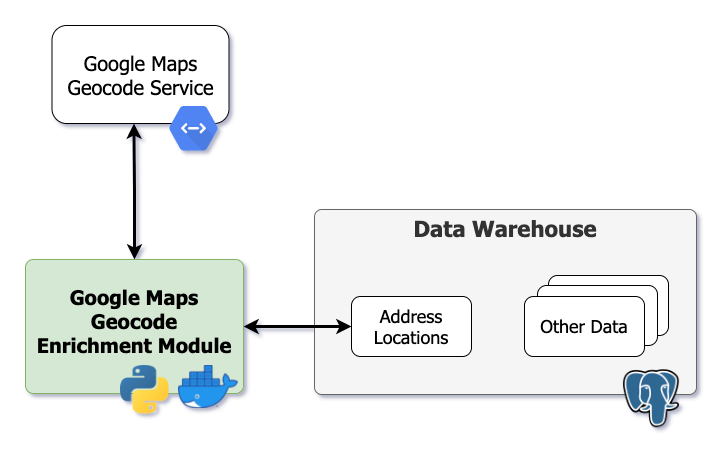
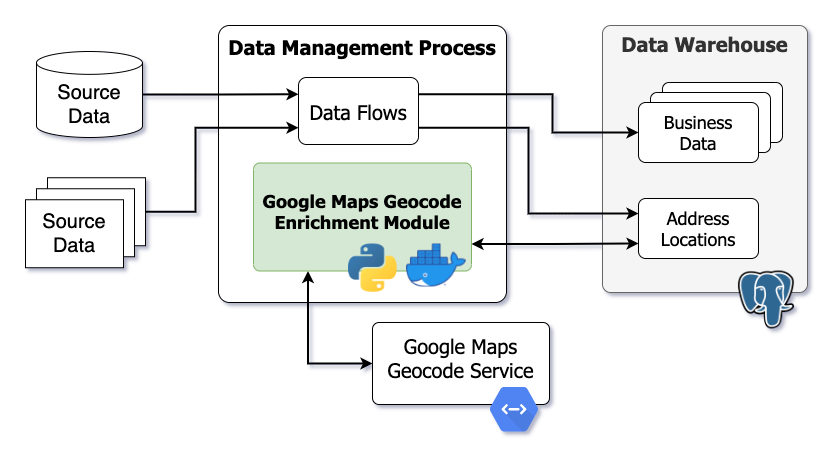
Update documentation

diff --git a/README.md b/README.md
@@ -27,20 +27,22 @@ This project repository provides a headless module to enrich location data in a 
 
 ## Background
 
-This module was built to provide data cleansing and enrichment for physical mailing address locations scraped from public data sources.  Street address locations can contain many typos, variations in spellings, misspellings and other problems.  The [Google Maps Geocode Service](https://developers.google.com/maps/documentation/geocoding/overview) was selected as a source of data enhancement and enrichment because Google Maps is one of the best sources of location-based addresses across the world and because of the advanced Natural Language Prediction (NLP) capabilities inherent in using this service for address resolution.
+This application module was built to provide data cleansing and enrichment for physical mailing address locations scraped from public data sources.  Street address locations can contain many typos, variations in spellings, misspellings and other problems.  The [Google Maps Geocode Service](https://developers.google.com/maps/documentation/geocoding/overview) was selected as a source of data enhancement and enrichment because Google Maps is one of the best sources of location-based addresses across the world and because of the advanced Natural Language Prediction (NLP) capabilities inherent in using this service for address resolution.
 
 The original design of this data enrichment module leveraged the following outputs from the Geocoding API:
 1. Latitude / Longitude coorindates for a street address
-2. Standardized cleansed street address
+2. Standardized cleansed street address label
 3. Tokenized pieces of the street address for additional filtering, analysis and grouping (i.e. parse "NC" from and address in North Carolina and store in a "State" column)
+4. Google Place ID (unique identifier for every location in the world)
 
-The scope of this module is intended to be a headless engine running on an as-needed basis to update records in a database table as a part of a broader data management pipeline.  Example use cases include data warehousing and data lakes.
+The scope of this module is intended to be a headless engine running on an as-needed basis to update records in a database table as a part of a broader data management ETL pipeline.  Example use cases include data warehousing and data lakes.
 
 ## Technical Overview
 
-This project repository provides source code to build a process to enrich address locations via the [Google Geocode API](https://developers.google.com/maps/documentation/geocoding/overview).  The source code is in python and is containerized with Docker.  This serves to address 2 main concerns.  First that it is written in a language that is approachable for data analysis purposes, and second it's efficient and fast enough to provide **~500,000 updates in 1 day**.  Parallelization of the Google API interaction step is needed to meet the latter criteria, and containerization serves as a useful means to accomplish that.
+This project repository provides source code to build a process to enrich address locations via the [Google Geocode API](https://developers.google.com/maps/documentation/geocoding/overview).  The source code is in python and is containerized with Docker.  This serves to address 2 main concerns.  First that it is written in a language that is approachable for data analysis purposes, and second it's efficient and fast enough to provide **~500,000 updates in 1 day**.  Parallelization of the Google API interaction step is needed to meet the latter criteria, and containerization serves as a useful means to accomplish that through scaling features of Docker.
 
-[<img src="./doc/img/overview.png" alt="Overview" width="600"/>](./doc/img/overview.png?raw=true)
+The following conceptual diagram highlights where this application fits into a broader data management strategy.
+[<img src="./doc/img/overview.png" alt="Overview" width="650"/>](./doc/img/overview.png?raw=true)
 
 
 ## Google Web Services Legal Disclaimer
@@ -67,13 +69,14 @@ Key components are organized into the following directory structure:
 - [/doc](./doc) - Project documentation. Example DDL provided for creating the ref_location database table used to cache geocode results by location.
 - [/lib](./lib) - Library code is contained in **lib**.  It constitutes the core reusable components for obtaining work from postgres, querying and collecting results from Google, and updating postgres.  Both the experimental code as well the the production cluster code makes use of it in the same way.
 - [/test](./test) - Experiments, testing and debugging code.  Different aspects of the dev process are illustrated here and can serve as simplistic checks for additional features.
+  - [../postgres_db](./test/postgres_db) - Containerized version of PostgreSQL for development and testing purposes only.
 
 
 ## Prerequisites
 
 Use of this application requires working knowledge of the following technologies:
 
-- [Docker](https://www.docker.com/)
+- [Docker](https://www.docker.com/) and [Docker Compose](https://docs.docker.com/compose/)
 - [Python](https://www.python.org/)
 - [Google Cloud Platform](https://cloud.google.com/)
 - [Google Maps Geocoding API](https://developers.google.com/maps/documentation/geocoding/overview)
@@ -83,6 +86,8 @@ Use of this application requires working knowledge of the following technologies
 - Command Line Interface
   - Mac and Linux machines natively support
   - Windows machines will need a [linux subsystem](https://docs.microsoft.com/en-us/windows/wsl/install)
+- [PostgreSQL Database](https://www.postgresql.org/) (any version)
+
 
 #### Google Maps Geocode API Credentials
 
@@ -110,12 +115,21 @@ This application requires the latest version of Python installed.
 
 - [Download Python](https://www.python.org/downloads/)
 
+#### PostgreSQL Requirements
+
+This application was built using PostgreSQL version 11.x and currently only supports PostgreSQL.  Any version of PostgreSQL should work.  This application uses standard SQL table generation, reads and updates.
+
+- [Download PostgreSQL](https://www.postgresql.org/download/)
+
+A [containerized version of PostgreSQL](./test/postgres_db) is provided to help understand the application in your local environment.
+
 
 ## Technical Component Overview
 
 The following list provides an overview of key components:
 - PostgreSQL database
-- geocode_lib library (custom python application written in Docker)
+- **ref_location** table within PostgreSQL database to store location data
+- **geocode_lib** library (custom python application written in Docker)
 - Kafka infrastructure
 - Enrichment process (custom python applications built with docker compose)
 
@@ -233,6 +247,80 @@ The following steps can be used to build a local environment for development and
 
   The `docker-compose` command above builds and runs the Docker container in the background.
 
+## Scaling Performance
+
+The enrichment process can be scaled in parallel using the `g_query` parameter in Step 5 of the [Deployment Instructions](#deployment-instructions).  Suggested values are provided below.
+- Development Unit Testing = 2
+- QA Testing = 10-50
+- Production = 90-110
+
+Ensure Kafka partitions are defined appropriately as described in the [Kafka Partitions](#kafka-partitions) section.  This application was originally built and operational on a small machine with only **4 vCPUs running 110 parallel threads** (`g_query`=110).
+
+
+## ref_location
+
+The **ref_location** table is used to store location information and results from this enrichment application process retrieved from the Google Maps Geocode API.  This section describes the physical structure of the table as well as intended usage and data flow expectations.  DDL code is provided to build this table along with useful indexes and constraints for PostgreSQL in [./doc/ref_location_ddl.sql](./doc/ref_location_ddl.sql). This application was built using PostgreSQL and currently only supports PostgreSQL.
+
+### Physical Table Definition
+
+The following table describes each column in the **ref_location** table.  Data types align with PostgreSQL supported data types.  Data flow describes where the record value originates for each column.  Record values loaded into **ref_location** via standard ETL data flows are marked with the acronym **ETL**.  These are typically required fields used by this application module to query the Google Maps Geocode API service or for internal record management purposes.  Record values updated by this enrichment application module are marked with the term **App** or **Geocode API (App)**.  Columns marked with **Geocode API (App)** are populated from Google Maps, through the Geocode API, managed by this application.
+
+| Column Name | Data Type | Description | Required? | Data Flow |
+| :-- | :--: | :----- | :--: | :--- |
+| location_hash | text | Unique hash or natural key of address location. **Primary key constraint**.  | Yes | ETL |
+| location | text | Raw address location either as an atomic-level street address or simple city / state.  | Yes | ETL |
+| enrichment_enabled | boolean | True/false value indicating if location enrichment using this application is enabled for record. | Yes | ETL |
+| enrichment_status | text | Simple description of the enrichment process status (`IN_PROCESS`, `COMPLETE`, or null) | | App |
+| formatted_address | text | Standardized and cleansed address | | Geocode API (App) |
+| latitude | numeric(11,6) | Latitude coordinate of location. | | Geocode API (App) |
+| longitude | numeric(11,6) | Longitude coordinate of location. | | Geocode API (App) |
+| load_dttm | timestamp | When the record was loaded into this table. | | App |
+| last_update_dttm | timestamp | When the record was last updated. | | App |
+| google_place_id | text | Unique place identifier provided by Google Maps. | | Geocode API (App) |
+| google_partial_match | boolean | Indicates if the raw location returns a partial match from the Google Maps Geocode API. | | Geocode API (App) |
+| google_result_count | integer | Number of addresses resolved by the Google Maps Geocode API. | | Geocode API (App) |
+| google_result_type | jsonb | JSON string listing of the possible [address types](https://developers.google.com/maps/documentation/geocoding/overview#Types). | | Geocode API (App) |
+| long_street_number | text | Full text description. See [address types and components](https://developers.google.com/maps/documentation/geocoding/overview#Types). | | Geocode API (App) |
+| long_route | text | Full text description. See [address types and components](https://developers.google.com/maps/documentation/geocoding/overview#Types). | | Geocode API (App) |
+| long_political | text | Full text description. See [address types and components](https://developers.google.com/maps/documentation/geocoding/overview#Types). | | Geocode API (App) |
+| long_locality | text | Full text description. See [address types and components](https://developers.google.com/maps/documentation/geocoding/overview#Types). | | Geocode API (App) |
+| long_postal_code | text | Full text description. See [address types and components](https://developers.google.com/maps/documentation/geocoding/overview#Types). | | Geocode API (App) |
+| long_postal_code_suffix | text | Full text description. See [address types and components](https://developers.google.com/maps/documentation/geocoding/overview#Types). | | Geocode API (App) |
+| long_postal_town | text | Full text description. See [address types and components](https://developers.google.com/maps/documentation/geocoding/overview#Types). | | Geocode API (App) |
+| long_premise | text | Full text description. See [address types and components](https://developers.google.com/maps/documentation/geocoding/overview#Types). | | Geocode API (App) |
+| long_country | text | Full text description. See [address types and components](https://developers.google.com/maps/documentation/geocoding/overview#Types). | | Geocode API (App) |
+| long_admin_area_level_1 | text | Full text description. See [address types and components](https://developers.google.com/maps/documentation/geocoding/overview#Types). | | Geocode API (App) |
+| long_admin_area_level_2 | text | Full text description. See [address types and components](https://developers.google.com/maps/documentation/geocoding/overview#Types). | | Geocode API (App) |
+| long_admin_area_level_3 | text | Full text description. See [address types and components](https://developers.google.com/maps/documentation/geocoding/overview#Types). | | Geocode API (App) |
+| long_admin_area_level_4 | text | Full text description. See [address types and components](https://developers.google.com/maps/documentation/geocoding/overview#Types). | | Geocode API (App) |
+| long_admin_area_level_5 | text | Full text description. See [address types and components](https://developers.google.com/maps/documentation/geocoding/overview#Types). | | Geocode API (App) |
+| long_establishment | text | Full text description. See [address types and components](https://developers.google.com/maps/documentation/geocoding/overview#Types). | | Geocode API (App) |
+| short_street_number | text | Abbreviated description. See [address types and components](https://developers.google.com/maps/documentation/geocoding/overview#Types). | | Geocode API (App) |
+| short_route | text | Abbreviated description. See [address types and components](https://developers.google.com/maps/documentation/geocoding/overview#Types). | | Geocode API (App) |
+| short_political | text | Abbreviated description. See [address types and components](https://developers.google.com/maps/documentation/geocoding/overview#Types). | | Geocode API (App) |
+| short_locality | text | Abbreviated description. See [address types and components](https://developers.google.com/maps/documentation/geocoding/overview#Types). | | Geocode API (App) |
+| short_postal_code | text | Abbreviated description. See [address types and components](https://developers.google.com/maps/documentation/geocoding/overview#Types). | | Geocode API (App) |
+| short_postal_code_suffix | text | Abbreviated description. See [address types and components](https://developers.google.com/maps/documentation/geocoding/overview#Types). | | Geocode API (App) |
+| short_postal_town | text | Abbreviated description. See [address types and components](https://developers.google.com/maps/documentation/geocoding/overview#Types). | | Geocode API (App) |
+| short_premise | text | Abbreviated description. See [address types and components](https://developers.google.com/maps/documentation/geocoding/overview#Types). | | Geocode API (App) |
+| short_country | text | Abbreviated description. See [address types and components](https://developers.google.com/maps/documentation/geocoding/overview#Types). | | Geocode API (App) |
+| short_admin_area_level_1 | text | Abbreviated description. See [address types and components](https://developers.google.com/maps/documentation/geocoding/overview#Types). | | Geocode API (App) |
+| short_admin_area_level_2 | text | Abbreviated description. See [address types and components](https://developers.google.com/maps/documentation/geocoding/overview#Types). | | Geocode API (App) |
+| short_admin_area_level_3 | text | Abbreviated description. See [address types and components](https://developers.google.com/maps/documentation/geocoding/overview#Types). | | Geocode API (App) |
+| short_admin_area_level_4 | text | Abbreviated description. See [address types and components](https://developers.google.com/maps/documentation/geocoding/overview#Types). | | Geocode API (App) |
+| short_admin_area_level_5 | text | Abbreviated description. See [address types and components](https://developers.google.com/maps/documentation/geocoding/overview#Types). | | Geocode API (App) |
+| short_establishment | text | Abbreviated description. See [address types and components](https://developers.google.com/maps/documentation/geocoding/overview#Types). | | Geocode API (App) |
+| location_type | jsonb | Address type. See [address types and components](https://developers.google.com/maps/documentation/geocoding/overview#Types). | | Geocode API (App) |
+| enrichment_api_response | jsonb | Full API JSON response provided by Geocode API service. | | Geocode API (App) |
+
+Additional documentation on geocode data output can be found on the [Google Maps Platform Documentation](https://developers.google.com/maps/documentation/geocoding/overview).
+
+
+### Logical Data Flow
+
+The **ref_location** table is designed to be an independent location to write any type of address location typically entered into Google Maps or any street address location service or GIS tool.  Addresses may be partial, limited or only cover broad cities or states.  The Google Maps Geocode API will provide a value regardless and this application enrichment process will ingest and update the **ref_location** table accordingly.  PostgreSQL is a high performance transactional database which can manage many simultaneous reads, writes and updates.
+
+
 ## Common Test Examples
 
 ### Interactive Geocode API JSON Response from Web Browser
@@ -240,6 +328,8 @@ The following steps can be used to build a local environment for development and
 To simulate the Geocode API interactively from a web browser and visually understand the JSON response, use the following URL structure with your API key:
 
 ``https://maps.googleapis.com/maps/api/geocode/json?address=1030%20Richardson%20Dr,%20Raleigh,%20NC%2027603&key=ENTER_YOUR_API_KEY``
+
+## Required Monitoring and Troubleshooting
 
 
 ## Standards
